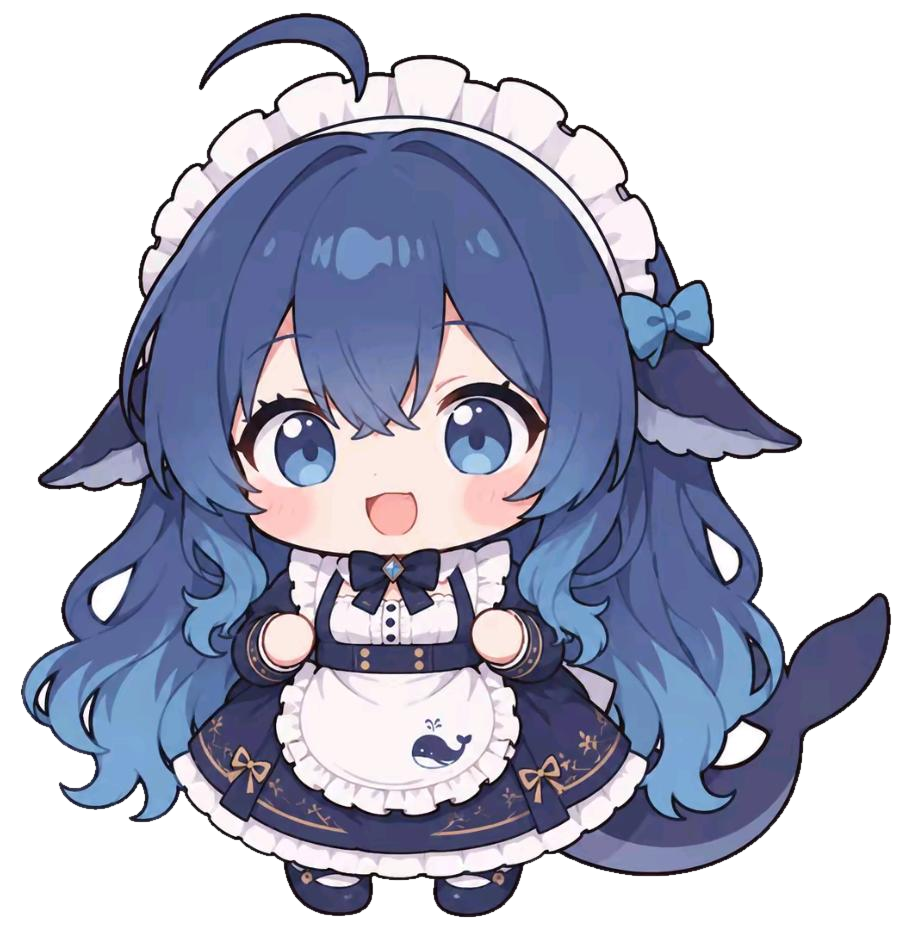
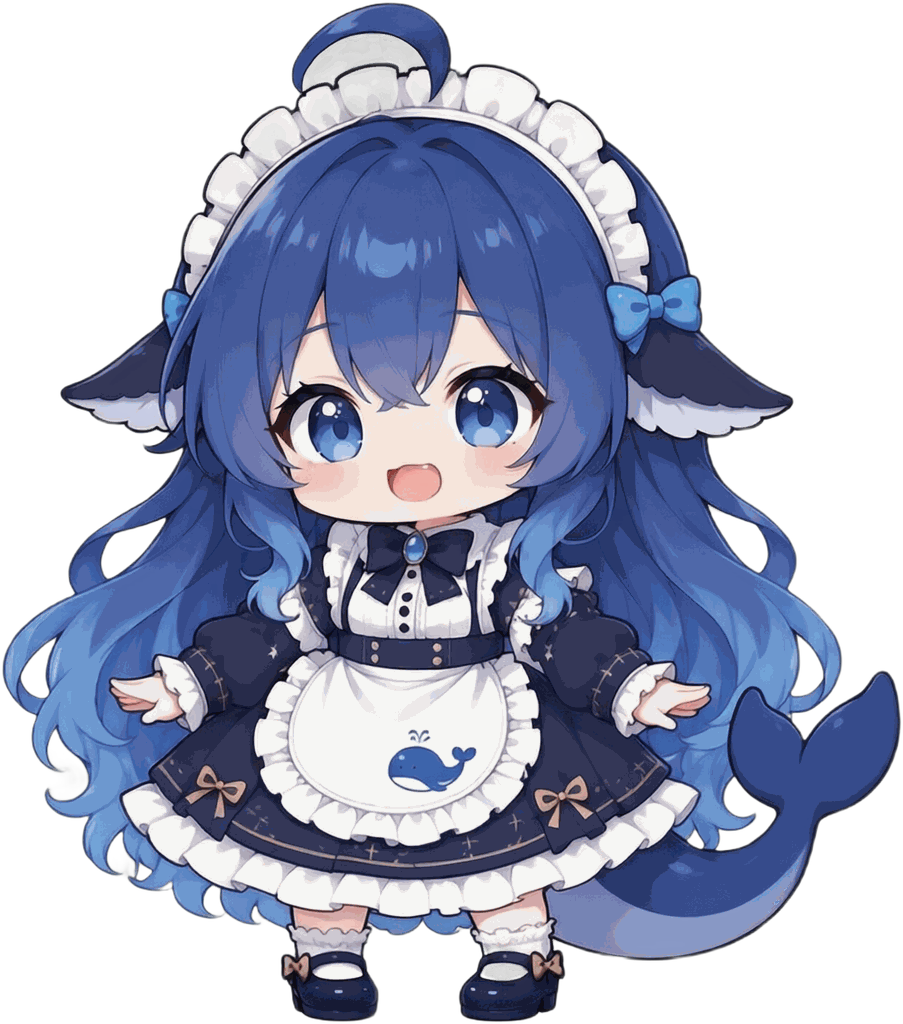
feat(whale-background): 背景图换成千问透明版（903x1024, 504KB）
原图为 910x941 RGBA(797KB)，新图为用户提供的千问生成版，含干净 alpha
通道、无「AI生成」/「千问」水印残留。

处理：先按 alpha>16 裁到真实内容（1440 原图四周有大量透明边距，用
alpha>4 会框住全幅），LANCZOS 缩到最小边 1024（903x1024），再 FASTOCTREE
量化 256 色并把原 alpha 通道单独贴回。alpha 完全无损，RGB 均差 2.32/255，
在补丁实际的 0.13 不透明度下不可察。

体积从源图的 1648KB 降到 504KB，低于旧图的 797KB；CSS 显示尺寸是
min(60vw,600px)，1024 已远超实际所需。

README 的验证命令同步更新：去掉已不适用的固定端口 19387（端口每次启动
变化），期望值改为约 504KB、903x1024。

注意：该补丁在 apply 时一次性 readFileSync 图片进内存，换图需重启桌面端
才生效。

diff --git a/patches/whale-background/README.md b/patches/whale-background/README.md
@@ -60,8 +60,9 @@ loader 行来自包内 `patches/whale-background/cordis.patch.yml`(勿在 profil
 需重启 DSH 桌面端。验证路由是否在服务:
 
 ```powershell
-Invoke-WebRequest http://127.0.0.1:19387/whale-background.png -UseBasicParsing | Select-Object StatusCode, RawContentLength
-# 期望 200 且约 816 KB(image/png)
+# 端口随桌面端每次启动变化，先看运行中宿主的实际端口
+Invoke-WebRequest http://127.0.0.1:<port>/whale-background.png -UseBasicParsing | Select-Object StatusCode, RawContentLength
+# 期望 200 且约 504 KB(image/png)，903x1024 的 RGBA 图
 ```
 
 ## 测试
